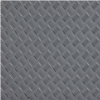
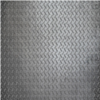
New pictures

diff --git a/src/game/PlayState.java b/src/game/PlayState.java
@@ -36,7 +36,7 @@ public class PlayState extends BasicGameState {
 	int players; // The amount of players 1-4
 	int hitCounter = 0;
 
-	private Image outerBrick = null, concrete = null,floorTile = null, bomb = null;
+	private Image outerBrick = null, concrete = null,floorTile = null; 
 	int nrtiles = 15; // must be odd otherwise map is weird.
 	
 	/**
@@ -56,7 +56,7 @@ public class PlayState extends BasicGameState {
 	private void parseSettings() {
 		players = Integer.parseInt(gameSettings.get("PLAYERS"));
 		playerControls = new HashMap<String,Integer>();
-		for(int i = 0; i < players;i++){
+		for(int i = 0; i < players;i++) {
 			playerControls.put("P"+(i+1)+"N",Integer.parseInt(gameSettings.get("P"+(i+1)+"N")));
 			playerControls.put("P"+(i+1)+"S",Integer.parseInt(gameSettings.get("P"+(i+1)+"S")));
 			playerControls.put("P"+(i+1)+"W",Integer.parseInt(gameSettings.get("P"+(i+1)+"W")));
@@ -79,10 +79,9 @@ public class PlayState extends BasicGameState {
 		parseSettings(); // Start by parsing all the settings.
 		
 		//Assign the images.
-		outerBrick = new Image("res/brick.png");
+		outerBrick = new Image("res/wall.png");
 		floorTile = new Image("res/metal.png");
-		concrete = new Image("res/brick2.png");
-		bomb = new Image("/res/bomb.png");
+		concrete = new Image("res/concrete.png");
 		
 		
 		//Creates the players and gives them positions.
@@ -105,13 +104,8 @@ public class PlayState extends BasicGameState {
 					tiles[x][y] = new Block();
 					tiles[x][y].setImg(concrete);
 				}else{
-
-
-
-
-
 					tiles[x][y] = new FloorTile(x,y);
-					//tiles[x][y].setImg(floorTile);
+					tiles[x][y].setImg(floorTile);
 
 				}
 			}

diff --git a/src/game/Lobby.java b/src/game/Lobby.java
@@ -10,14 +10,17 @@ import org.newdawn.slick.SlickException;
 import org.newdawn.slick.geom.Vector2f;
 import org.newdawn.slick.state.BasicGameState;
 import org.newdawn.slick.state.StateBasedGame;
+import org.newdawn.slick.Image;
 /**
  * A lobby to welcome the player when first starting the application.
  * Contains buttons with shortcuts to the game or settings.
- * @author Fredrik
+ * @author Fredrik Hallberg & Victor Dahlin
+ * @version 2012-04-19
  *
  */
 public class Lobby extends BasicGameState {
 	Button[] b; // An array of buttons.
+	private Image menu = null; 
 
 	public Lobby(){
 
@@ -25,9 +28,10 @@ public class Lobby extends BasicGameState {
 	@Override
 	public void init(GameContainer container, StateBasedGame game)
 			throws SlickException {
+		menu = new Image("res/menu.png");
 		b = new Button[2];
-		b[0] = new Button(320,200,100,50,"Start");
-		b[1] = new Button(320,250,100,50,"Menu");
+		b[0] = new Button(200,250,100,50,"Game");
+		b[1] = new Button(200,300,100,50,"Menu");
 		b[0].setShortCut(Constants.GAME);
 		b[1].setShortCut(Constants.SETTINGMENU);
 		b[1].setButtonColor(Color.red);
@@ -35,6 +39,7 @@ public class Lobby extends BasicGameState {
 	@Override
 	public void render(GameContainer container, StateBasedGame game, Graphics g)
 			throws SlickException {
+		menu.draw(0,0);
 		for(int i= 0; i < b.length;i++){
 			b[i].render(container, game, g);
 		}
@@ -42,6 +47,7 @@ public class Lobby extends BasicGameState {
 	@Override
 	public void update(GameContainer container, StateBasedGame game, int delta)
 			throws SlickException {
+		
 		Input in = container.getInput();
 
 		if(in.isMousePressed(0)){

diff --git a/src/entities/Player.java b/src/entities/Player.java
@@ -27,7 +27,7 @@ public class Player implements Renderable {
 	}
 
 	public boolean update(GameContainer c, int delta, PlayState p) {
-		if(!moving){
+		if(!moving) {
 			if(!accel.equals(new Vector2f(0,0))){
 				if(p.getTiles()[(int) (tile.getGridx() + accel.x)][(int) (tile.getGridy() + accel.y)] instanceof FloorTile){
 					goal = (FloorTile) p.getTiles()[(int) (tile.getGridx() + accel.x)][(int) (tile.getGridy() + accel.y)];
